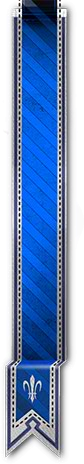
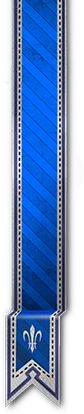
add solid base gwent card element

Changed region(s): [[0.0476, 0.0, 0.8571, 0.9855], [0.7857, 0.1449, 0.8095, 0.1739], [0.6905, 0.8406, 0.7143, 0.8696]]

diff --git a/gwentDeckBuilder/src/lib/components/Card.svelte b/gwentDeckBuilder/src/lib/components/Card.svelte
@@ -1,16 +1,86 @@
 <script lang="ts">
 	const BASE_PATH = '/resources/cards/';
+	const ELEMENTS_PATH = `${BASE_PATH}elements/`;
+
+	type Faction = 'MO' | 'NIL' | 'NOR' | 'SC' | 'SK';
+	type CardType = 'HERO' | 'NORMAL' | 'LEADER';
 
 	interface Props {
 		faction: string;
+		type: string;
 		name: string;
 		imagePath: string;
 		description?: string;
 	}
 
-	let { faction, name, imagePath, description = '' }: Props = $props();
+	let { faction, type, name, imagePath, description = '' }: Props = $props();
+
+	const factions: Faction[] = ['MO', 'NIL', 'NOR', 'SC', 'SK'];
+	const cardTypes: CardType[] = ['HERO', 'NORMAL', 'LEADER'];
+	const goldFactions = new Set<Faction>(['NIL', 'SC']);
+
+	const factionStripes: Record<Faction, string> = {
+		MO: `${ELEMENTS_PATH}mo_stripe.png`,
+		NIL: `${ELEMENTS_PATH}nil_stripe.png`,
+		NOR: `${ELEMENTS_PATH}nor_stripe.png`,
+		SC: `${ELEMENTS_PATH}sc_stripe.png`,
+		SK: `${ELEMENTS_PATH}sk_stripe.png`
+	};
+
+	const premiumPowerNumbers: Record<Faction, string> = {
+		MO: `${ELEMENTS_PATH}power_number_premium_MO.png`,
+		NIL: `${ELEMENTS_PATH}power_number_premium_NIL.png`,
+		NOR: `${ELEMENTS_PATH}power_number_premium_NOR.png`,
+		SC: `${ELEMENTS_PATH}power_number_premium_SC.png`,
+		SK: `${ELEMENTS_PATH}power_number_premium_SK.png`
+	};
+
+	const normalizeFaction = (value: string): Faction => {
+		const factionKey = value.toUpperCase() as Faction;
+		return factions.includes(factionKey) ? factionKey : 'MO';
+	};
+
+	const normalizeType = (value: string): CardType => {
+		const typeKey = value.toUpperCase() as CardType;
+		return cardTypes.includes(typeKey) ? typeKey : 'NORMAL';
+	};
 
 	const src = $derived(`${BASE_PATH}${imagePath}`);
+	const factionKey = $derived(normalizeFaction(faction));
+	const typeKey = $derived(normalizeType(type));
+	const isGoldFaction = $derived(goldFactions.has(factionKey));
+	const shouldShowPowerNumber = $derived(typeKey !== 'LEADER');
+	const shouldShowPowerNumberBorder = $derived(typeKey === 'HERO');
+	const powerNumberCircleSrc = $derived(
+		typeKey === 'HERO'
+			? premiumPowerNumbers[factionKey]
+			: isGoldFaction
+				? `${ELEMENTS_PATH}power_number_gold.png`
+				: `${ELEMENTS_PATH}power_number_silver.png`
+	);
+	const powerNumberBorderSrc = $derived(
+		isGoldFaction
+			? `${ELEMENTS_PATH}power_number_border_gold.png`
+			: `${ELEMENTS_PATH}power_number_border_silver.png`
+	);
+	const powerNumberCircleClass = $derived(
+		`power-number-circle power-number-circle-${typeKey.toLowerCase()}`
+	);
+	const factionStripeSrc = $derived(factionStripes[factionKey]);
+	const descriptionBackgroundSrc = $derived(
+		typeKey === 'HERO'
+			? `${ELEMENTS_PATH}desc_background_hero.png`
+			: `${ELEMENTS_PATH}desc_background_normal.png`
+	);
+	const descriptionTopbarSrc = $derived(
+		typeKey === 'HERO'
+			? isGoldFaction
+				? `${ELEMENTS_PATH}desc_background_top_bar_hero_gold.png`
+				: `${ELEMENTS_PATH}desc_background_top_bar_hero_silver.png`
+			: isGoldFaction
+				? `${ELEMENTS_PATH}desc_background_top_ bar_gold.png`
+				: `${ELEMENTS_PATH}desc_background_top_bar_silver.png`
+	);
 </script>
 
 <div class="card-wrap">
@@ -20,13 +90,38 @@
 		</div>
 
 		<div class="card-description">
-			<p>{name}</p>
-			<p>{description}</p>
+			<img class="description-topbar" src={descriptionTopbarSrc} alt="" />
+
+			<div class="description-background">
+				<img class="description-background-image" src={descriptionBackgroundSrc} alt="" />
+
+				<div class="description-text">
+					<p>{name}</p>
+					<p>{description}</p>
+				</div>
+			</div>
 		</div>
-		<img class="faction-stripe" src="/resources/cards/elements/nml_stripe.png" alt="" />
 	</div>
 
-	<img class="power-number" src="/resources/other/power_number_hero_silver_MO.png" alt="" />
+	{#if shouldShowPowerNumber}
+		<div class="power-number">
+			<img class={powerNumberCircleClass} src={powerNumberCircleSrc} alt="" />
+			{#if shouldShowPowerNumberBorder}
+				<img class="power-number-border" src={powerNumberBorderSrc} alt="" />
+			{/if}
+			<img class="faction-stripe" src={factionStripeSrc} alt="" />
+			<img
+				class="info1-stripe"
+				src="/resources/cards/elements/additional_info_silver_1.png"
+				alt=""
+			/>
+			<img
+				class="info2-stripe"
+				src="/resources/cards/elements/additional_info_silver_2.png"
+				alt=""
+			/>
+		</div>
+	{/if}
 </div>
 
 <style>
@@ -34,6 +129,7 @@
 		overflow: hidden;
 		position: relative;
 		width: 150px;
+		isolation: isolate;
 	}
 
 	.card {
@@ -44,6 +140,7 @@
 		cursor: pointer;
 		border: 5px solid black;
 		background: #1a1a1a;
+		z-index: 1;
 	}
 
 	.card-image {
@@ -61,30 +158,116 @@
 	}
 
 	.card-description {
+		position: relative;
+		display: flex;
+		flex-direction: column;
 		font-size: 4px;
-		height: 53px;
+		height: 60px;
 		color: black;
-		background-image: url('/resources/cards/elements/desc_background.png');
-		background-size: cover;
-		background-position: center;
-		background-repeat: no-repeat;
+		overflow: hidden;
 	}
 
-	.faction-stripe {
+	.description-topbar {
+		display: block;
+		width: 100%;
+		height: auto;
+		max-width: none;
+		flex: 0 0 auto;
+	}
+
+	.description-background {
+		position: relative;
+		flex: 1;
+		min-height: 0;
+		overflow: hidden;
+	}
+
+	.description-background-image {
 		position: absolute;
-		left: 4px;
-		bottom: 5px;
-		width: 30%;
-		z-index: 2;
-		pointer-events: none;
+		inset: 0;
+		width: 100%;
+		height: 100%;
+		object-fit: cover;
+		display: block;
+	}
+
+	.description-text {
+		position: relative;
+		z-index: 1;
+	}
+
+	.description-text p {
+		margin: 0;
 	}
 
 	.power-number {
 		position: absolute;
-		left: -1px;
-		top: 0px;
-		width: 60%;
-		z-index: 3;
 		pointer-events: none;
+		left: 14px;
+		top: 15px;
+		z-index: 2;
+	}
+
+	.power-number-circle {
+		position: absolute;
+		display: block;
+		max-width: none;
+		z-index: 3;
+	}
+
+	.power-number-circle-hero {
+		width: 50px;
+		height: 50px;
+		top: -15px;
+		left: -15px;
+	}
+
+	.power-number-circle-normal {
+		width: 35px;
+		height: 35px;
+		top: -7px;
+		left: -7px;
+	}
+
+	.info1-stripe {
+		position: absolute;
+		top: 37px;
+		left: -4.9px;
+		width: 31px;
+		height: 31px;
+		max-width: none;
+		z-index: 3;
+	}
+
+	.info2-stripe {
+		position: absolute;
+		top: 85px;
+		left: -2.7px;
+		width: 26px;
+		height: 26px;
+		max-width: none;
+		z-index: 3;
+	}
+
+	.faction-stripe {
+		position: absolute;
+		display: block;
+		top: 13px;
+		left: -8.5px;
+		width: 40px;
+		height: auto;
+		max-width: none;
+		z-index: 2;
+	}
+
+	.power-number-border {
+		position: absolute;
+		display: block;
+		top: -14px;
+		left: -14px;
+		width: 74px;
+		height: 74px;
+		max-width: none;
+		z-index: 1;
 	}
 </style>

diff --git a/gwentDeckBuilder/src/routes/+page.svelte b/gwentDeckBuilder/src/routes/+page.svelte
@@ -3,13 +3,29 @@
 </script>
 
 <main class="test-page">
-	<Card faction="MO" name="" imagePath="standard/neutral/neu_geralt.png" description="" />
+	<Card
+		faction="MO"
+		type="HERO"
+		name=""
+		imagePath="standard/neutral/neu_geralt.png"
+		description=""
+	/>
+
+	<Card
+		faction="MO"
+		type="NORMAL"
+		name=""
+		imagePath="standard/monsters/nml_toad.png"
+		description=""
+	/>
 </main>
 
 <style>
 	.test-page {
 		min-height: 100vh;
 		display: flex;
+		gap: 24px;
+		flex-wrap: wrap;
 		align-items: center;
 		justify-content: center;
 	}